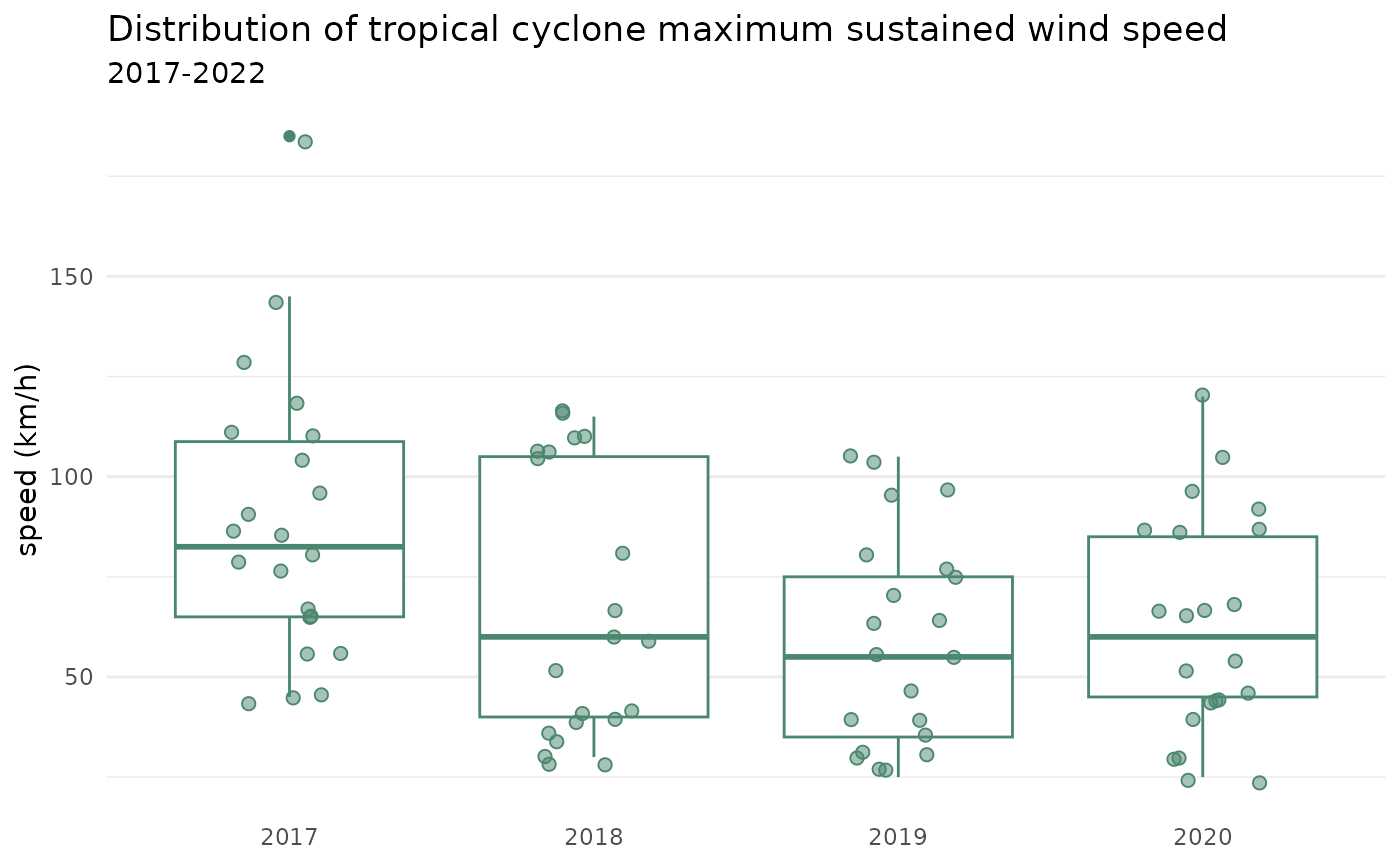
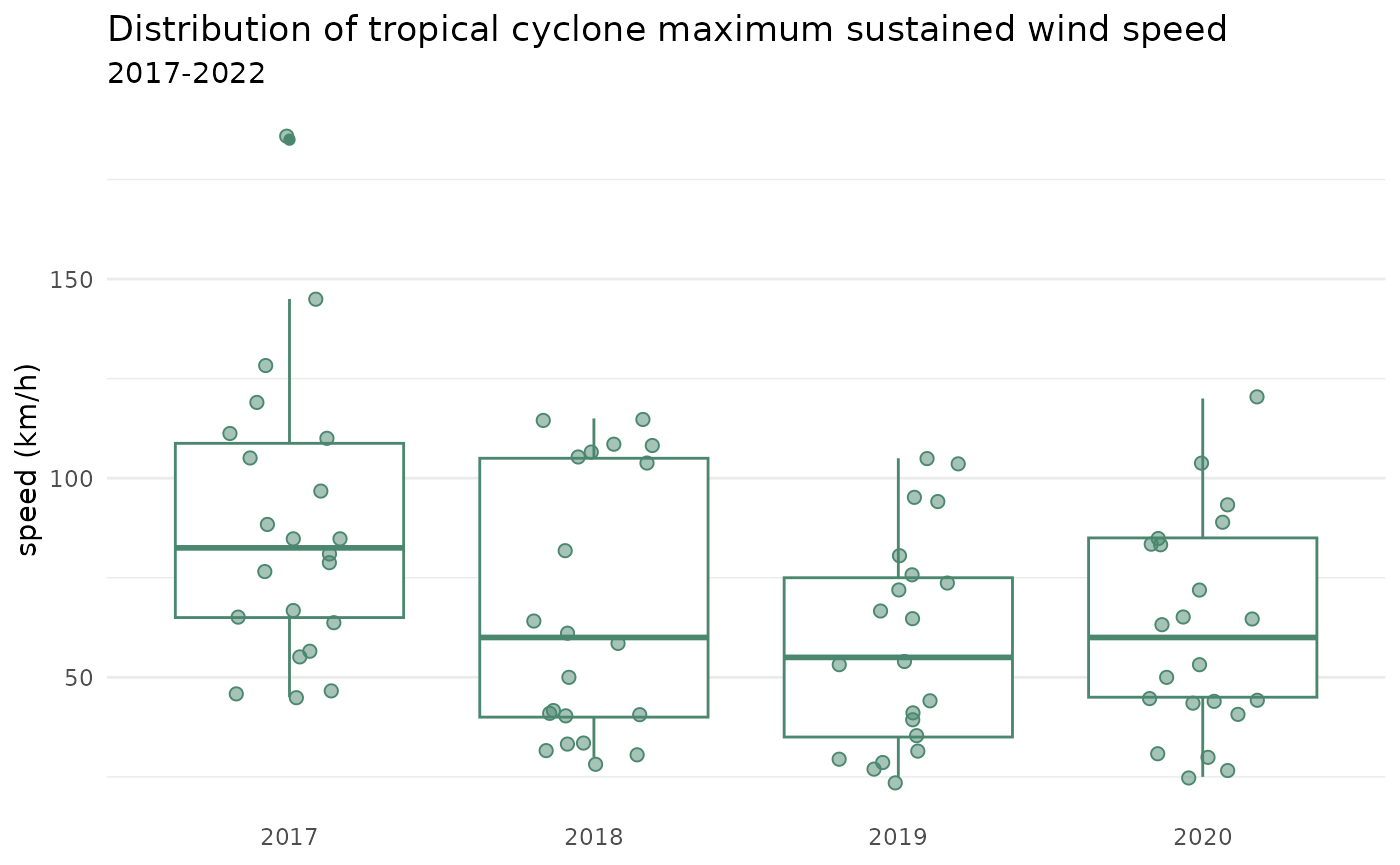
Deploying to gh-pages from @ panukatan/bagyo@0b2032c585dbc0b873e0f0b441eddc688c30742f 🚀

diff --git a/articles/bagyo.html b/articles/bagyo.html
@@ -366,7 +366,7 @@ wrangling approaches, particularly those using the
 <span>  <span class="fu"><a href="https://dplyr.tidyverse.org/reference/mutate.html" class="external-link">mutate</a></span><span class="op">(</span>year <span class="op">=</span> <span class="fu"><a href="https://rdrr.io/r/base/factor.html" class="external-link">factor</a></span><span class="op">(</span><span class="va">year</span><span class="op">)</span><span class="op">)</span> <span class="op">|&gt;</span></span>
 <span>  <span class="fu">ggplot</span><span class="op">(</span>mapping <span class="op">=</span> <span class="fu">aes</span><span class="op">(</span>x <span class="op">=</span> <span class="va">year</span>, y <span class="op">=</span> <span class="va">speed</span><span class="op">)</span><span class="op">)</span> <span class="op">+</span></span>
 <span>  <span class="fu">geom_violin</span><span class="op">(</span>colour <span class="op">=</span> <span class="st">"#4b876e"</span>, fill <span class="op">=</span> <span class="fu">alpha</span><span class="op">(</span><span class="st">"#4b876e"</span>, <span class="fl">0.5</span><span class="op">)</span><span class="op">)</span> <span class="op">+</span></span>
-<span>  <span class="fu">geom_jitter</span><span class="op">(</span>fill <span class="op">=</span> <span class="st">"#4b876e"</span>, size <span class="op">=</span> <span class="fl">2</span>, width <span class="op">=</span> <span class="fl">0.2</span><span class="op">)</span> <span class="op">+</span></span>
+<span>  <span class="fu">geom_jitter</span><span class="op">(</span>colour <span class="op">=</span> <span class="st">"#4b876e"</span>, size <span class="op">=</span> <span class="fl">2</span>, width <span class="op">=</span> <span class="fl">0.2</span><span class="op">)</span> <span class="op">+</span></span>
 <span>  <span class="fu">labs</span><span class="op">(</span></span>
 <span>    title <span class="op">=</span> <span class="st">"Distribution of tropical cyclone maximum sustained wind speed"</span>,</span>
 <span>    subtitle <span class="op">=</span> <span class="st">"2017-2022"</span>,</span>
